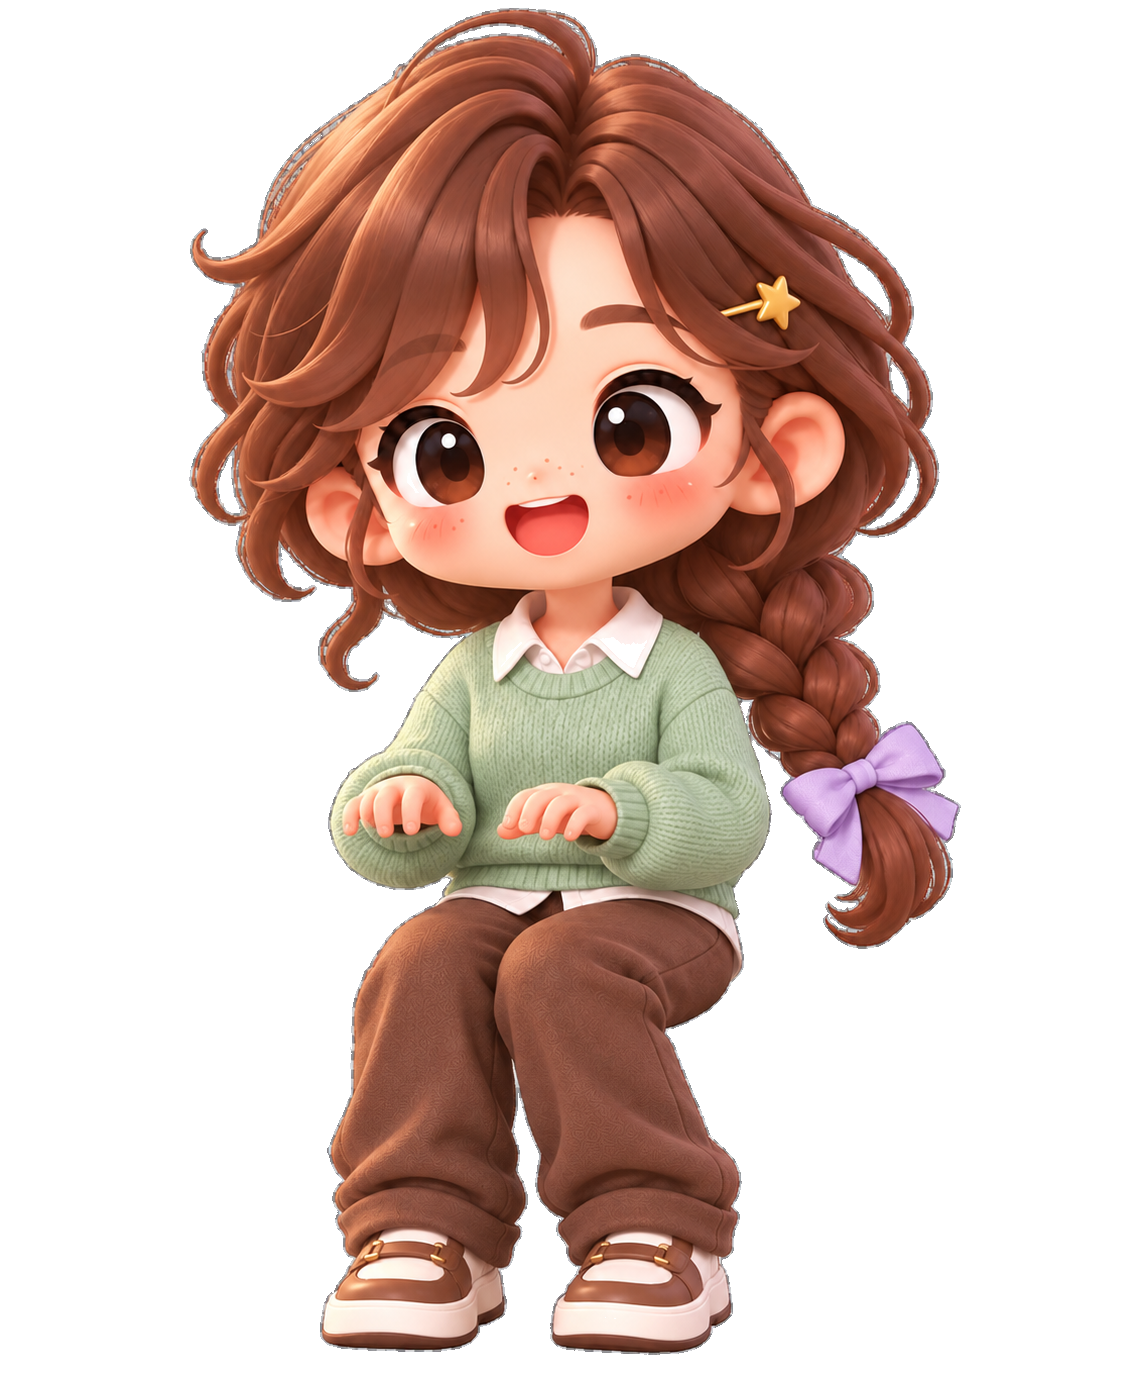
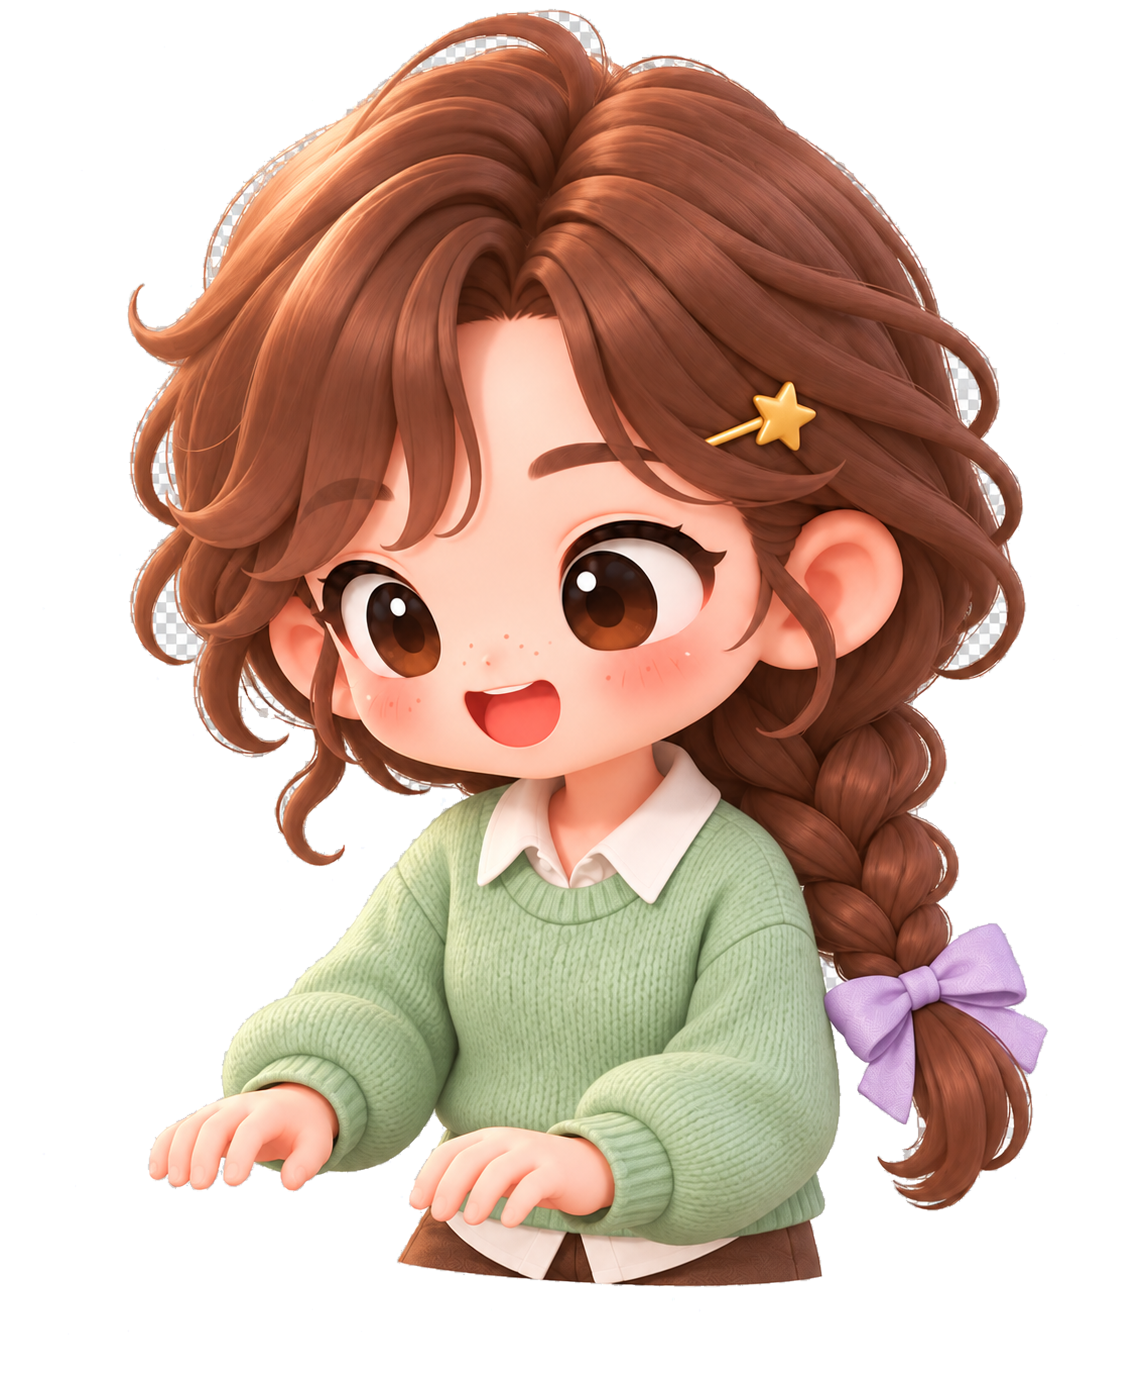
feat(console): 책상용 착석 원화 전원분과 열린 문 — 관통하던 다리와 농도로 때우던 여닫이를 끝낸다
마지막 두 벌이 들어왔다.

**책상용 착석**(`agent-{N}-sit.png`, 스무 장). 허리 아래가 없고 팔을 앞으로 뻗은
그림이라 상판이 하반신을 가려 준다. 일곱 명분만 있던 동안 나머지 열세 명은 책상에서
다리가 상판 아래로 보였다 — `--busy-demo` 렌더로 전원이 상반신만 보이는 것을 확인했다.

**열린 문**(`door-open.png`). 지금까지는 열린 문 원화가 없어 문짝 농도를 낮춰
"지나갈 수 있음" 만 알렸다. 두 원화가 프레임·캔버스를 공유하므로 논리 문 노드의
크기와 위치를 건드리지 않고 **텍스처만 교체**하면 실제로 회전한 문짝이 보인다.

**감춰 둔 문을 건드리지 않는 가드는 그대로 둔다.** 좌우 경계에서는 방 셸 그림이 이미
문을 가지고 있어 스프라이트를 `alpha = 0` 으로 감추는데, 텍스처 교체 경로가 농도를
1 로 되돌리므로 가드가 없으면 감춘 문이 셸의 문 위에 겹친다(#577 리뷰 지적). 주석을
농도 조절 시절 문구에서 지금 동작에 맞게 고쳤다.

에셋 검사에 `door-open` 을 더한다. `desk-items`(#579)와 같은 줄에서 충돌해, 양쪽을
모두 살려 합쳤다.

검증: swift build · ConsoleCoreTests 9915건 · --asset-check(가구 18종·포즈 63장) ·
--color-check · `--busy-demo` 렌더에서 책상 착석 육안 확인.

**미검증**: 문이 열리는 장면은 사람이 다가와야 일어나므로 정지 렌더로 확인할 수 없다.

diff --git a/clients/idaeri-console/Sources/IdaeriConsole/CozyOfficeNodeFactory.swift b/clients/idaeri-console/Sources/IdaeriConsole/CozyOfficeNodeFactory.swift
@@ -704,24 +704,28 @@ enum CozyOfficeNodeFactory {
             // 스프라이트 한 장을 눌러서는 경첩 회전이 표현되지 않는다 — 열린 문은 각도가
             // 바뀌면서 보이는 면 자체가 달라지는데, 그것은 원화가 따로 있어야 한다.
             //
-            // 그래서 **비켜 준다.** 사람이 다가오면 문짝을 옅게 해 지나갈 수 있음을 알리고,
-            // 떠나면 원래 농도로 돌아온다. 문이 사라지지 않으므로 방 경계는 계속 보이고,
-            // 닫힌 문을 뚫고 지나가는 인상도 줄어든다. 열린 문 원화가 들어오면 그때
-            // 텍스처 교체로 바꾸면 된다.
+            // 열린 문 원화와 닫힌 문 원화는 프레임·캔버스가 같으므로, 논리 문 노드의 크기와
+            // 위치를 건드리지 않고 텍스처만 교체하면 사람이 다가올 때 실제 회전한 문짝이 보인다.
             guard let sprite = node as? SKSpriteNode else {
                 return
             }
             // **숨겨 둔 문은 건드리지 않는다.** 좌우 경계에서는 방 셸 그림이 이미 문을
             // 가지고 있어 이 스프라이트를 `alpha = 0` 으로 감추는데, 여닫기는 보이든
-            // 안 보이든 모든 문 노드에 불린다. 농도를 무조건 바꾸면 감춰 둔 문이 셸의 문
-            // **위에 겹쳐 되살아난다.** 이미 보이는 문(가로 경계)만 농도를 조절한다.
+            // 안 보이든 모든 문 노드에 불린다. 아래에서 농도를 1 로 되돌리므로, 이 가드가
+            // 없으면 감춰 둔 문이 셸의 문 **위에 겹쳐 되살아난다.** 이미 보이는 문
+            // (가로 경계)만 그림을 바꾼다.
             guard sprite.alpha > 0.01 else {
                 return
             }
-            sprite.run(
-                .fadeAlpha(to: open ? 0.32 : 1, duration: 0.18),
-                withKey: "doorSwing"
-            )
+            guard let texture = SpriteLoader.cozyFurnitureTexture(
+                open ? .doorOpen : .doorClosed
+            ) else {
+                return
+            }
+            sprite.removeAction(forKey: "doorSwing")
+            sprite.texture = texture
+            sprite.texture?.filteringMode = .linear
+            sprite.alpha = 1
             return
         }
         panel.fillColor = open

diff --git a/clients/idaeri-console/Sources/IdaeriConsole/CozyAssetCheck.swift b/clients/idaeri-console/Sources/IdaeriConsole/CozyAssetCheck.swift
@@ -195,7 +195,8 @@ func runCozyAssetCheck() -> Bool {
         "workstation", "chair", "sofa", "meeting-table", "bookshelf", "coffee-station",
         "planning-board-table", "quality-review-station", "evaluation-kpi-console",
         "treasury-ledger-console", "content-storyboard-station", "internal-ops-control-desk",
-        "vacuum-robot", "waste-bin", "dust-pile", "door-closed", "desk-items",
+        "vacuum-robot", "waste-bin", "dust-pile",
+        "door-closed", "door-open", "desk-items",
     ]
     for name in furnitureAssets {
         guard let url = Bundle.module.url(
@@ -213,8 +214,10 @@ func runCozyAssetCheck() -> Bool {
         }
         // 배경이 통째로 불투명하면 바닥 위에 흰 사각형이 얹힌다. 생성형 에셋에서 실제로
         // 겪은 사고라(먼지 그림이 체크무늬 배경째 들어왔다) 새로 받는 바닥 소품은 전부 검사한다.
-        if ["vacuum-robot", "waste-bin", "dust-pile", "door-closed", "desk-items"]
-            .contains(name),
+        if [
+            "vacuum-robot", "waste-bin", "dust-pile",
+            "door-closed", "door-open", "desk-items",
+        ].contains(name),
            let provider = cgImage.dataProvider,
            let data = provider.data, let bytes = CFDataGetBytePtr(data) {
             let bytesPerPixel = cgImage.bitsPerPixel / 8

diff --git a/clients/idaeri-console/Sources/IdaeriConsole/SpriteLoader.swift b/clients/idaeri-console/Sources/IdaeriConsole/SpriteLoader.swift
@@ -225,8 +225,10 @@ enum SpriteLoader {
             assetName = "waste-bin"
         // 방과 방 사이 경계에 세우는 문. 에셋이 없으면 nil 이 돌아가 **아무것도 그려지지
         // 않는다** — 지금까지와 같은 화면이므로, 원화가 들어오는 순간에만 문이 선다.
-        case .doorClosed, .doorOpen:
+        case .doorClosed:
             assetName = "door-closed"
+        case .doorOpen:
+            assetName = "door-open"
         default:
             assetName = nil
         }
